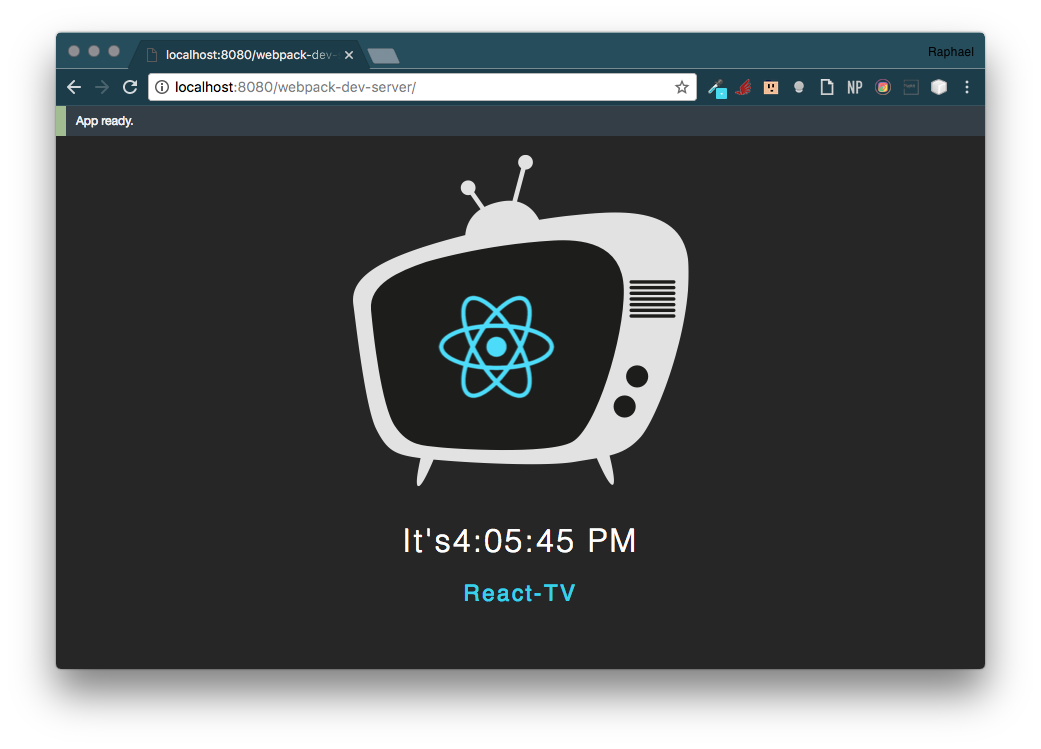
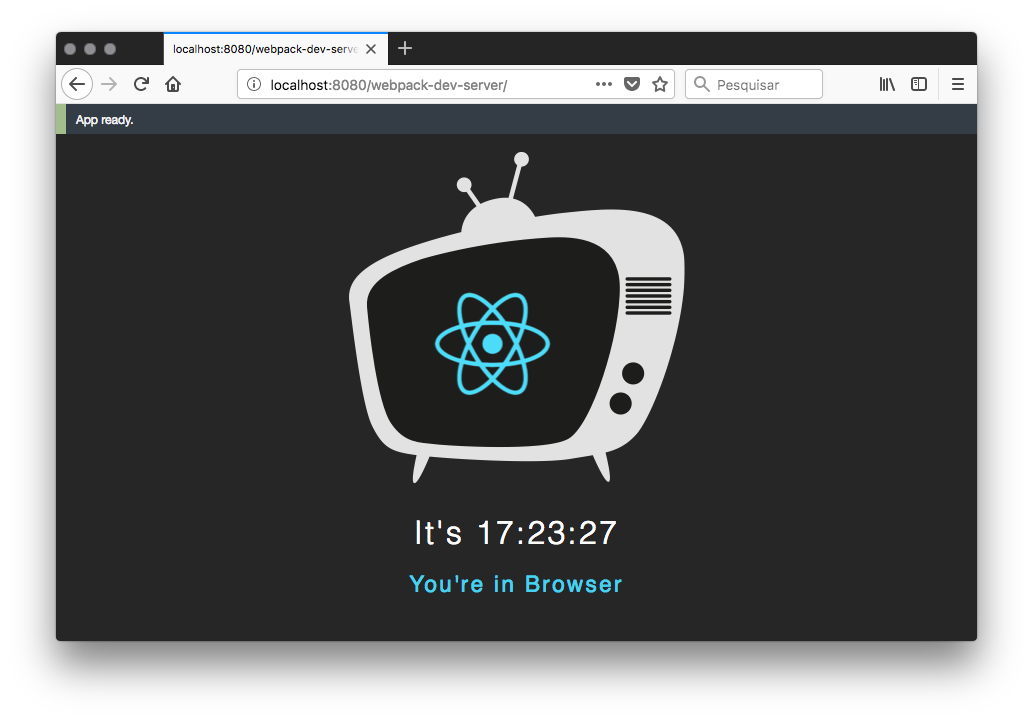
docs: update example about clock

diff --git a/examples/clock-app-with-react-tv/src/App.js b/examples/clock-app-with-react-tv/src/App.js
@@ -8,17 +8,17 @@ class Clock extends React.Component {
   }
 
   render() {
-    if (!Platform('webos')) {
-      return (
-        <div class="webos">
-          <img src="https://i.imgur.com/9yhDR0Q.png"/>
-          <h1>It's {this.state.date.toLocaleTimeString()}</h1>
-          <p>React-TV</p>
-        </div>
-      )
-    }
+    let currentPlatform = 'Browser'
+    if (Platform('webos'))
+      currentPlatform = 'LG WebOS'
 
-    return <h2>This App is available only at LG WebOS</h2>
+    return (
+      <div class='container'>
+        <img src='https://i.imgur.com/9yhDR0Q.png'/>
+        <h1>It's {this.state.date.toLocaleTimeString()}</h1>
+        <p>You're in {currentPlatform}</p>
+      </div>
+    )
   }
 }
 

diff --git a/examples/clock-app-with-react-tv/style.css b/examples/clock-app-with-react-tv/style.css
@@ -19,7 +19,7 @@ p {
   font-size: 1.4em;
 }
 
-.webos {
+.container {
   display: flex;
   justify-content: center;
   align-content: center;
@@ -30,6 +30,6 @@ p {
   width: 100%;
 }
 
-.webos p, .webos h1 {
+.container p, .container h1 {
   width: 100%
 }

diff --git a/README.md b/README.md
@@ -36,6 +36,7 @@ ReactTV.render(<Clock/>, document.getElementById('root'))
 - [Getting Started](#getting-started)
   - [Installing](#installing)
   - [Examples](#examples)
+    - [Clock TV App rendering with React-TV](#clock-tv-app-rendering-with-react-tv)
   - [Using CLI](#using-cli)
   - [Using Module](#using-module)
 - [Supported Televisions](#supported-televisions)
@@ -89,7 +90,7 @@ $ yarn add react-tv
 
 ## Examples
 
-##### [Clock TV App Rendering with React-TV](https://github.com/raphamorim/react-tv/tree/master/examples/clock-app-with-react-tv)
+### [Clock TV App Rendering with React-TV](https://github.com/raphamorim/react-tv/tree/master/examples/clock-app-with-react-tv)
 
 ![clock-with-react-tv-as-renderer](resources/examples/clock-with-react-tv-as-renderer.png)
 
@@ -104,22 +105,21 @@ class Clock extends React.Component {
   }
 
   render() {
-    if (!Platform('webos')) {
-      return (
-        <div class="webos">
-          <img src="https://i.imgur.com/9yhDR0Q.png"/>
-          <h1>It's {this.state.date.toLocaleTimeString()}</h1>
-          <p>React-TV</p>
-        </div>
-      )
-    }
+    let currentPlatform = 'Browser'
+    if (Platform('webos'))
+      currentPlatform = 'LG WebOS'
 
-    return <h2>This App is available only at LG WebOS</h2>
+    return (
+      <div class='container'>
+        <img src='https://i.imgur.com/9yhDR0Q.png'/>
+        <h1>It's {this.state.date.toLocaleTimeString()}</h1>
+        <p>You're in {currentPlatform}</p>
+      </div>
+    )
   }
 }
 
 ReactTV.render(<Clock/>, document.getElementById('root'))
-
 ```
 
 ## Using CLI
